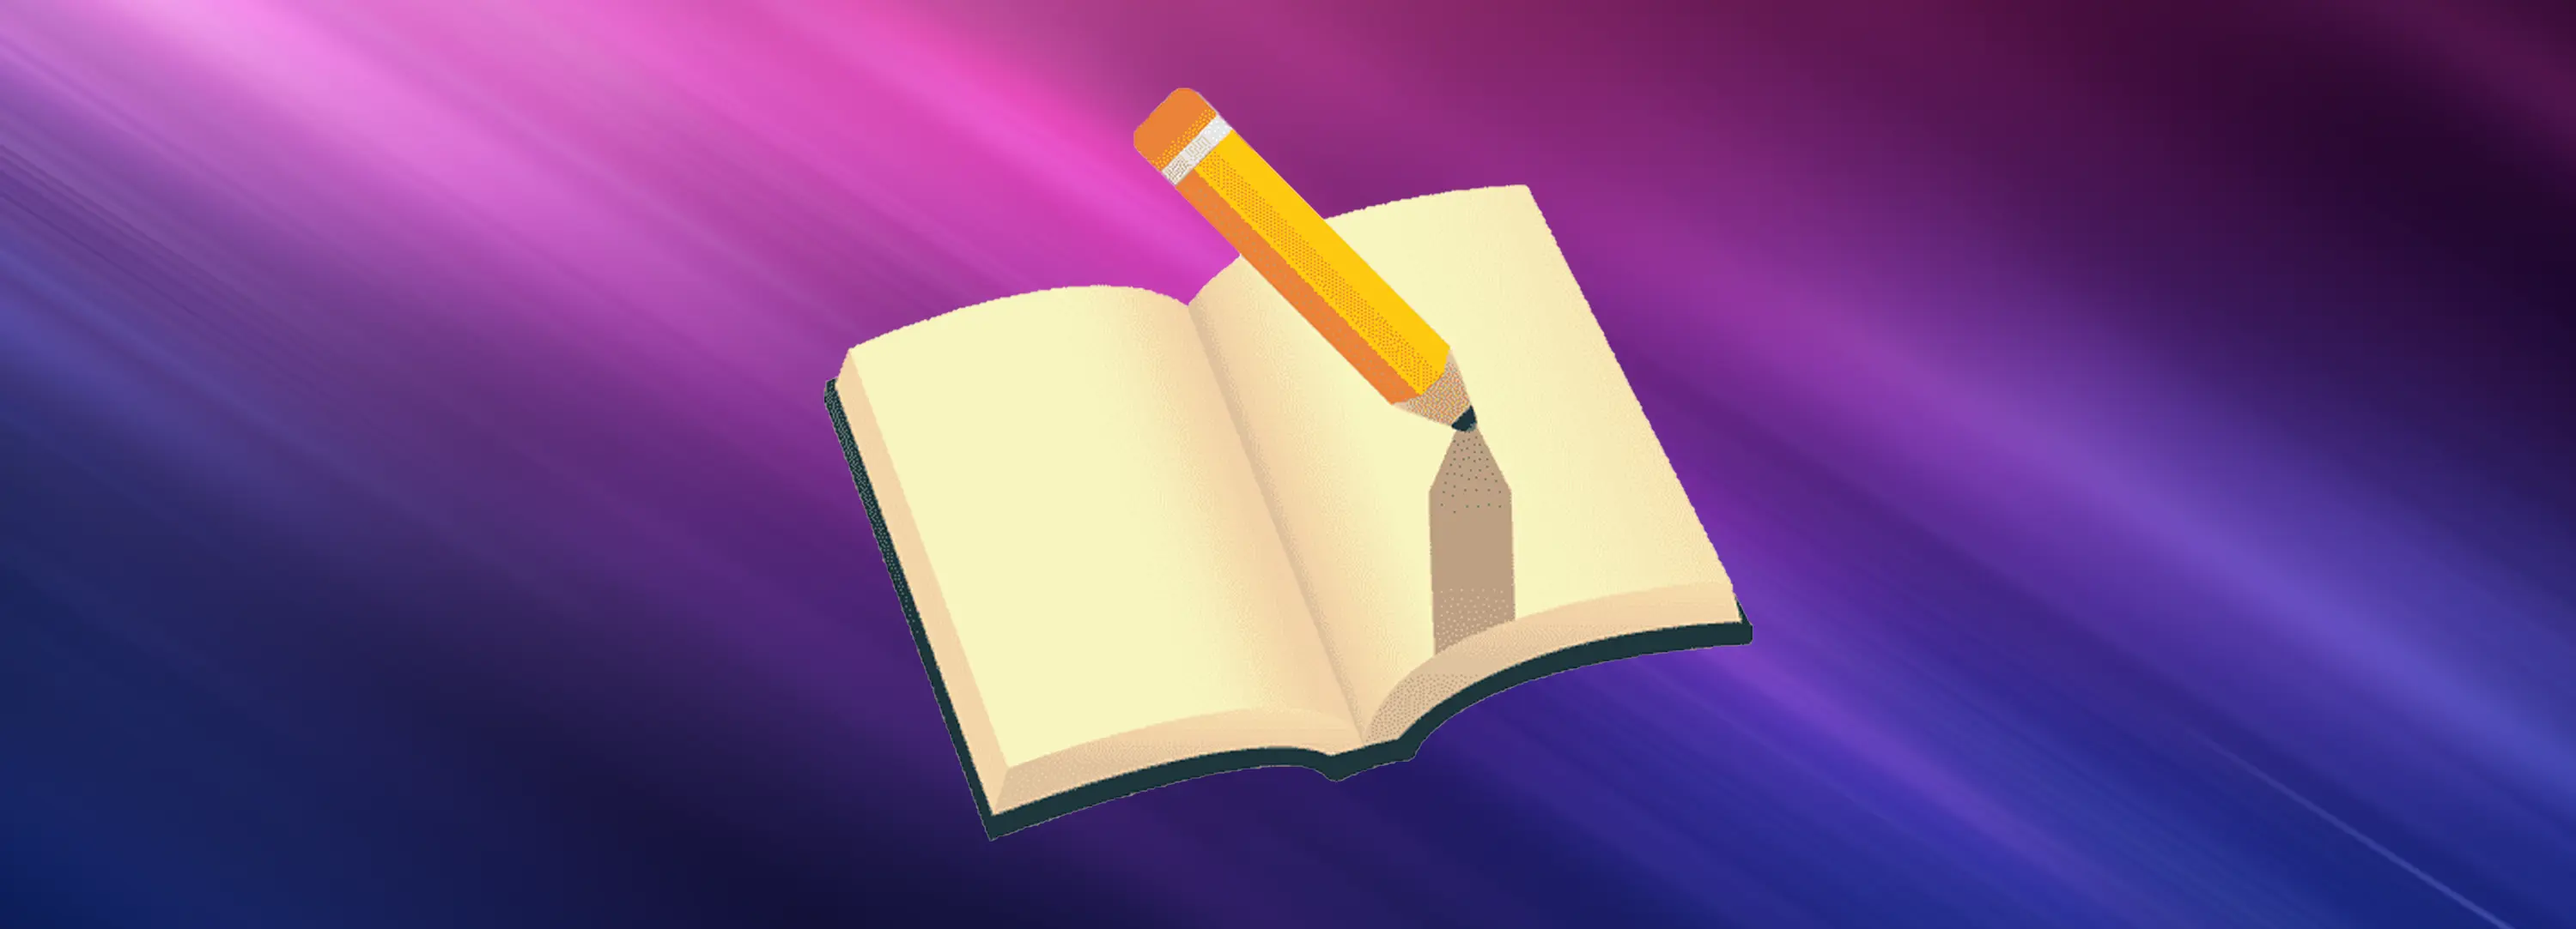
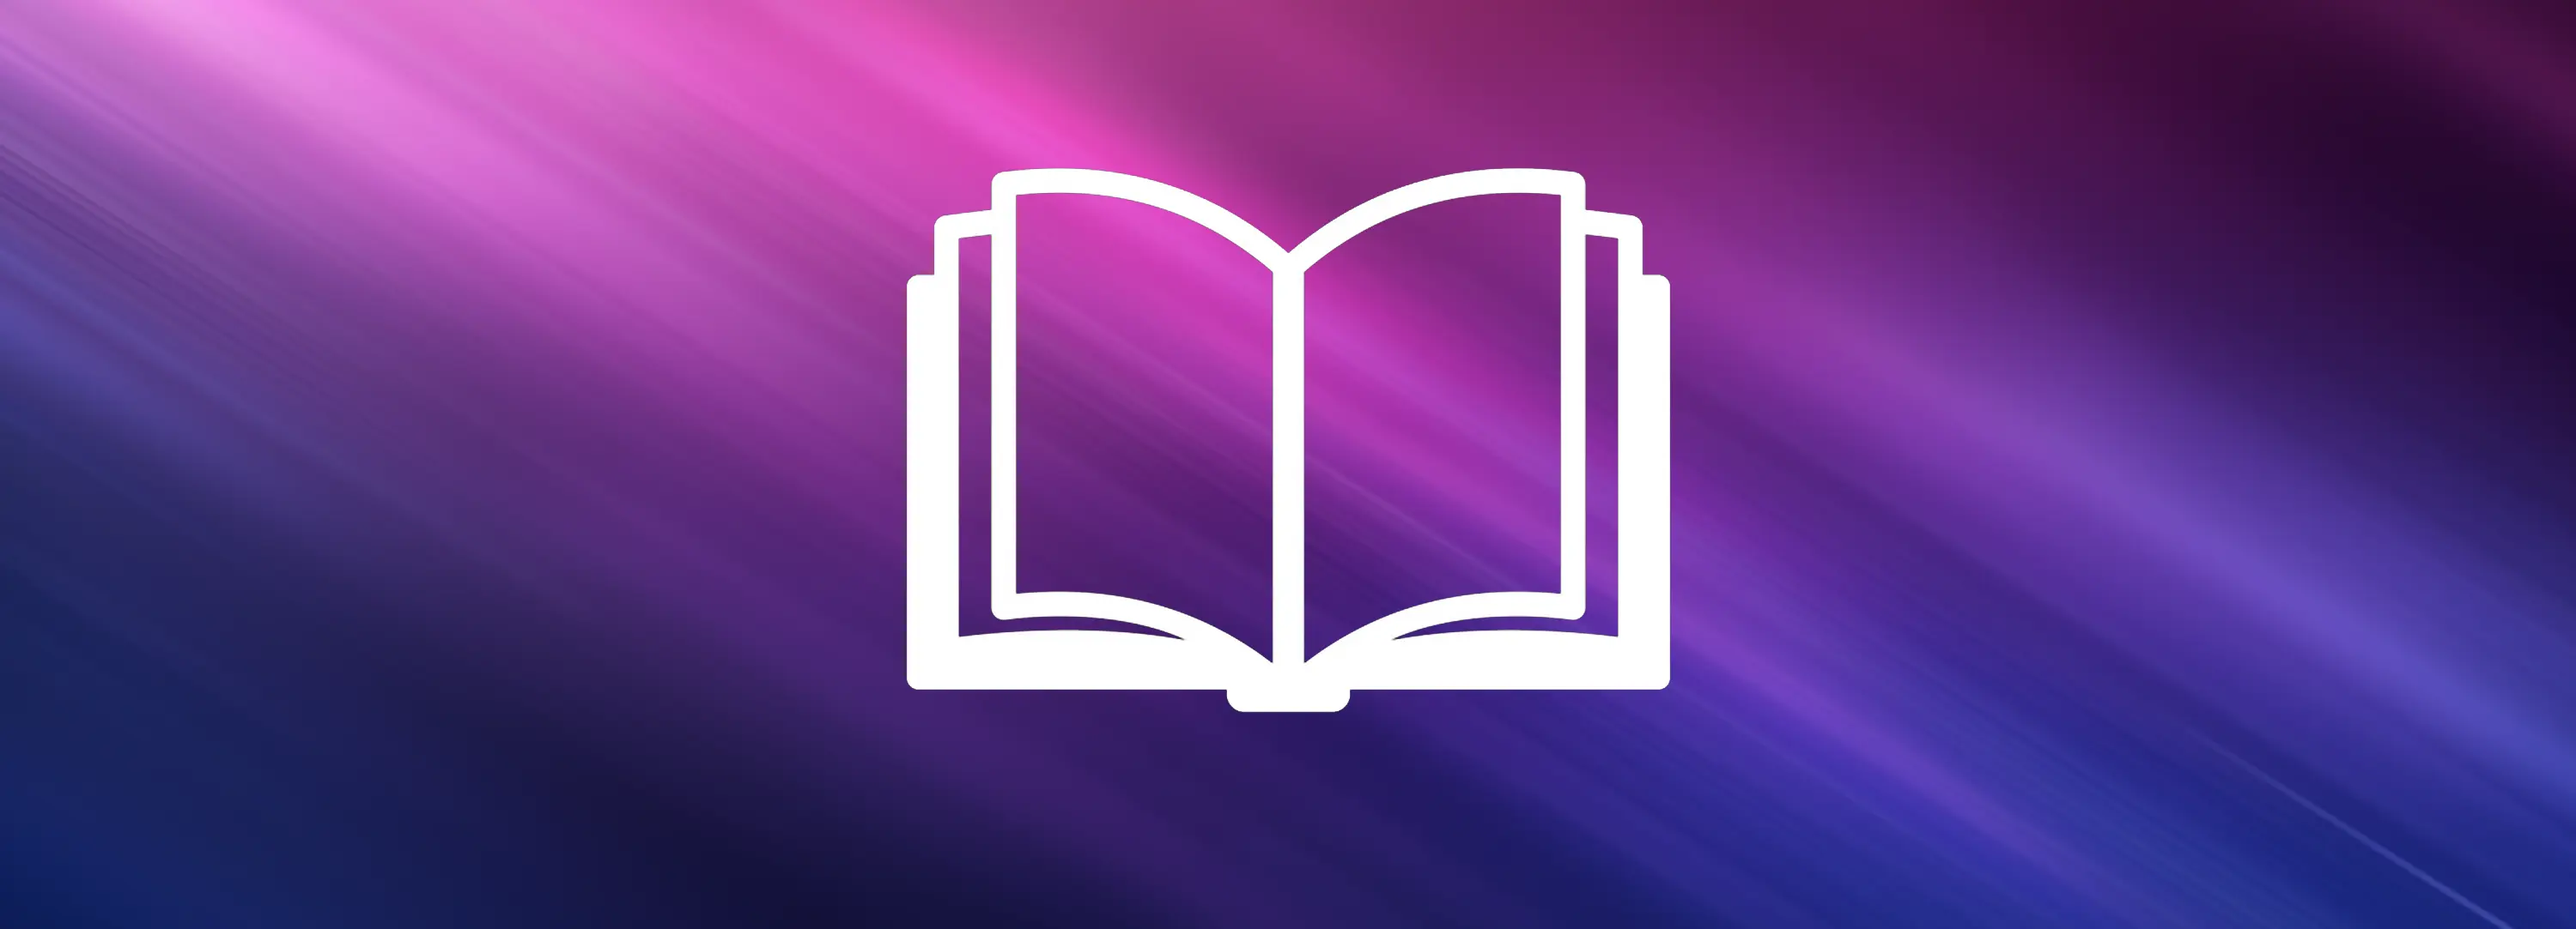
png

Changed region(s): [[0.31, 0.0914, 0.682, 0.9141]]

diff --git a/index.html b/index.html
@@ -58,7 +58,7 @@
 
                 <a href="./challenges.html">
                     <div class="box">
-                        <img src="./images/header_background_blured3.webp" alt="Icône Défis"/>
+                        <img src="./images/challenges.webp" alt="Icône Défis"/>
                         <div class="box_info">
                             <h4>Challenges</h4>
                             <p>Pour exercer et tester vos compétences</p>
@@ -68,7 +68,7 @@
 
                 <a href="./projects.html">
                     <div class="box">
-                        <img src="./images/header_background_blured3.webp" alt="Icône Projets"/>
+                        <img src="./images/projects.webp" alt="Icône Projets"/>
                         <div class="box_info">
                             <h4>Projets</h4>
                             <p>Pour mettre en pratique vos compétences et connaissance sur des projets concrets</p>
